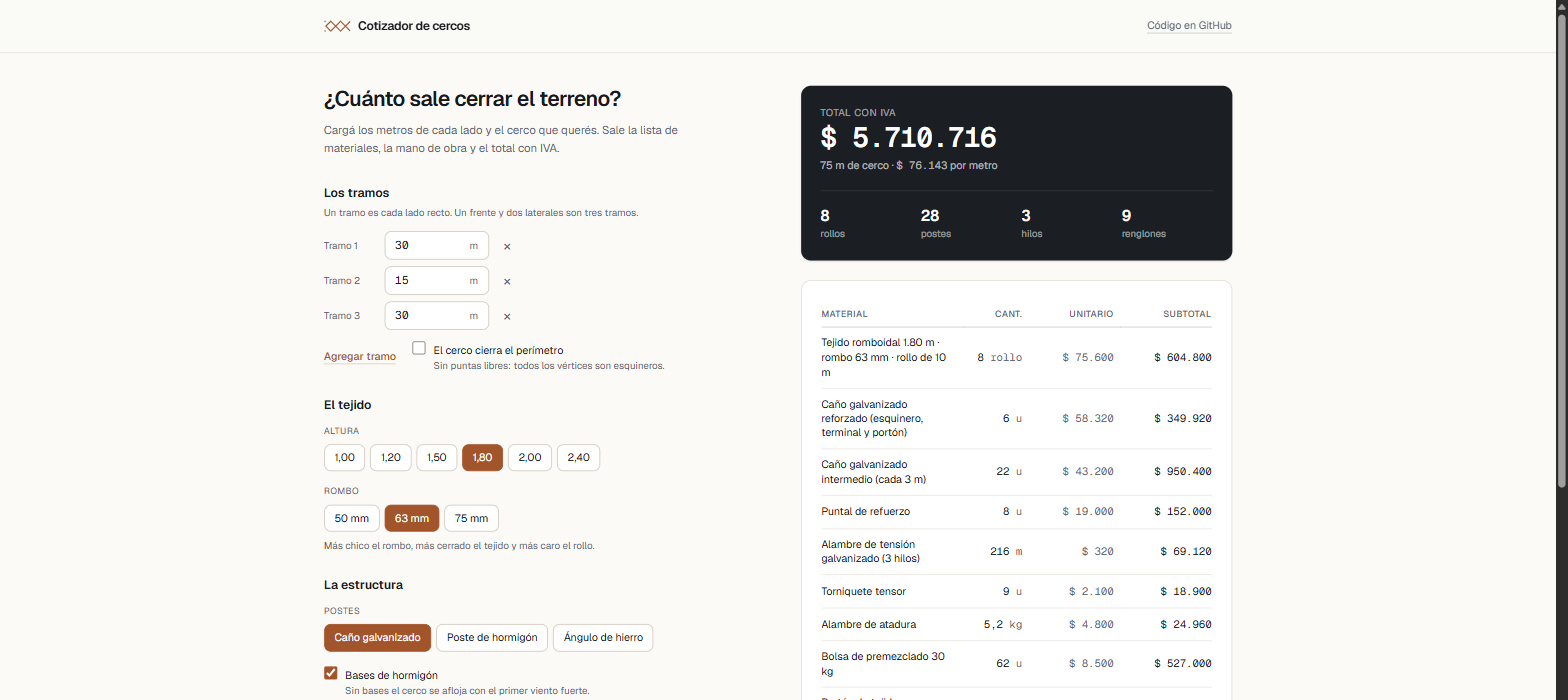
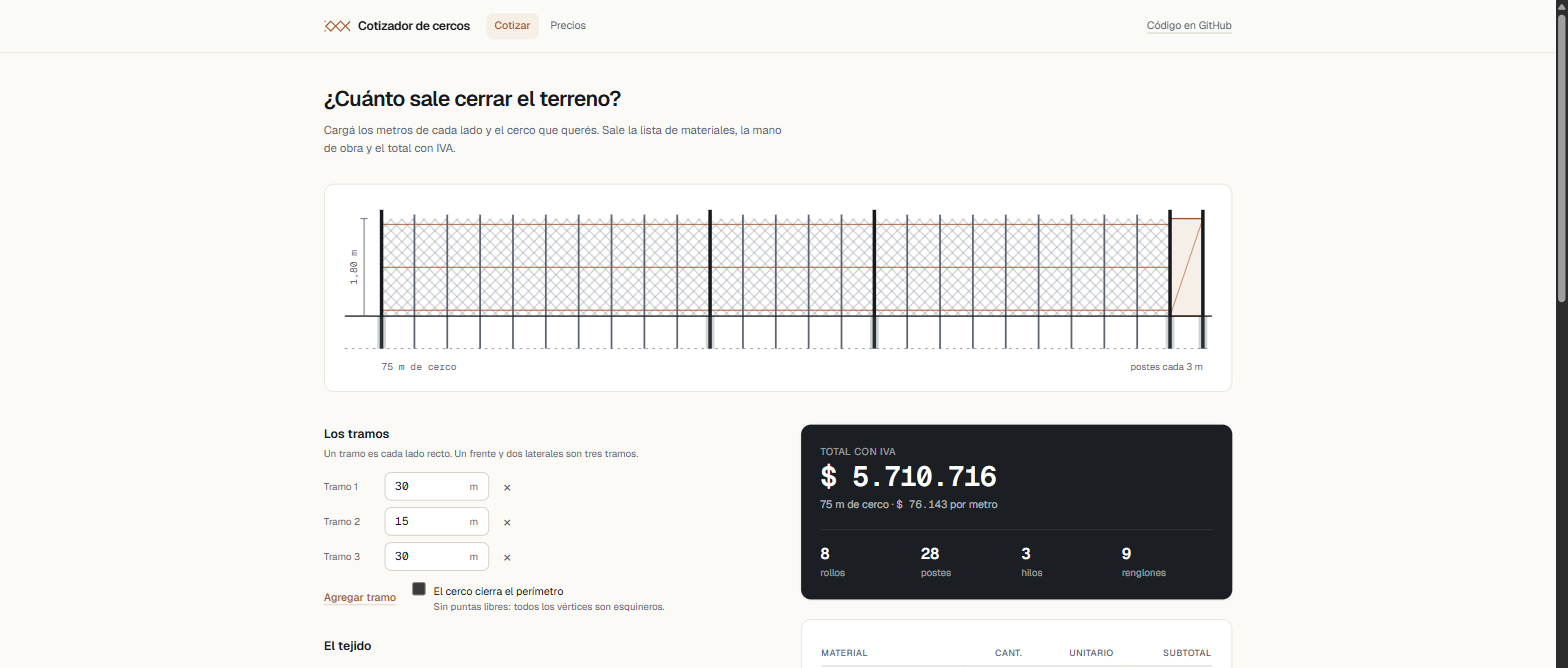
Actualiza la tarjeta del cotizador: ahora edita precios y dibuja el cerco
La captura vieja era de antes del modulo de precios y del dibujo. La nueva
muestra lo que hay que ver primero: el cerco dibujado a escala arriba de todo.

El texto suma la decision que ordena el proyecto y que antes no estaba dicha: los
precios se editan desde la app y entran al calculo como argumento, asi que el
calculo sigue siendo puro aunque los precios vivan en una base que cambia.

diff --git a/src/lib/content.ts b/src/lib/content.ts
@@ -78,17 +78,17 @@ export const proyectos: Proyecto[] = [
     nombre: "Cotizador de cercos",
     periodo: "2026",
     resumen:
-      "Entran los metros de cada lado y sale la lista de materiales, la mano de obra y el total con IVA. El cálculo es una función pura que corre en el navegador para el número en vivo y otra vez en el servidor al guardar, descartando los totales que manda el cliente. Una cotización guardada no se recalcula: congela los precios del día, como una factura.",
+      "Entran los metros de cada lado y sale la lista de materiales, la mano de obra y el total con IVA, con el cerco dibujado a escala. El cálculo es una función pura: corre en el navegador para el número en vivo y otra vez en el servidor al guardar, descartando los totales que manda el cliente. Los precios se editan desde la app y entran al cálculo como argumento, así que sigue siendo puro; y una cotización guardada no se recalcula, congela los precios del día como una factura.",
     stack: ["Next.js", "TypeScript", "tRPC", "Prisma", "Vitest"],
     href: "https://github.com/AlejoDiPietro/cotizador-cercos",
     repo: "https://github.com/AlejoDiPietro/cotizador-cercos",
     captura: "/capturas/cotizador.png",
     // La medida real del archivo. La captura es el ancho completo del navegador:
-    // forzarla a 16/10 recortaria justo la tarjeta del total, que es lo que hay
+    // forzarla a 16/10 recortaria justo el dibujo del cerco, que es lo que hay
     // que ver.
-    capturaRatio: "1568 / 700",
+    capturaRatio: "1568 / 668",
     capturaAlt:
-      "Pantalla del cotizador: a la izquierda el formulario con los tramos, la altura y el rombo del tejido; a la derecha el total con IVA sobre fondo oscuro y el detalle de materiales renglón por renglón.",
+      "Pantalla del cotizador: arriba, el cerco dibujado a escala con los postes, los hilos de tensión y el portón; abajo a la izquierda el formulario con los tramos y el tejido, y a la derecha el total con IVA sobre fondo oscuro.",
   },
   {
     slug: "aetheria",

diff --git a/src/app/en/page.tsx b/src/app/en/page.tsx
@@ -35,7 +35,7 @@ const work = [
     nombre: "Fence quoting tool",
     periodo: "2026",
     resumen:
-      "Metres of each side go in; a bill of materials, labour and the VAT-inclusive total come out. The calculation is a pure function that runs in the browser for the live number and again on the server when saving, discarding whatever totals the client sends. A saved quote is never recalculated: it freezes that day's prices, the way an invoice does.",
+      "Metres of each side go in; a bill of materials, labour and the VAT-inclusive total come out, with the fence drawn to scale. The calculation is a pure function: it runs in the browser for the live number and again on the server when saving, discarding whatever totals the client sends. Prices are edited from the app and passed into the calculation as an argument, so it stays pure — and a saved quote is never recalculated, it freezes that day's prices the way an invoice does.",
     stack: "Next.js · TypeScript · tRPC · Prisma · Vitest",
     href: "https://github.com/AlejoDiPietro/cotizador-cercos",
   },
